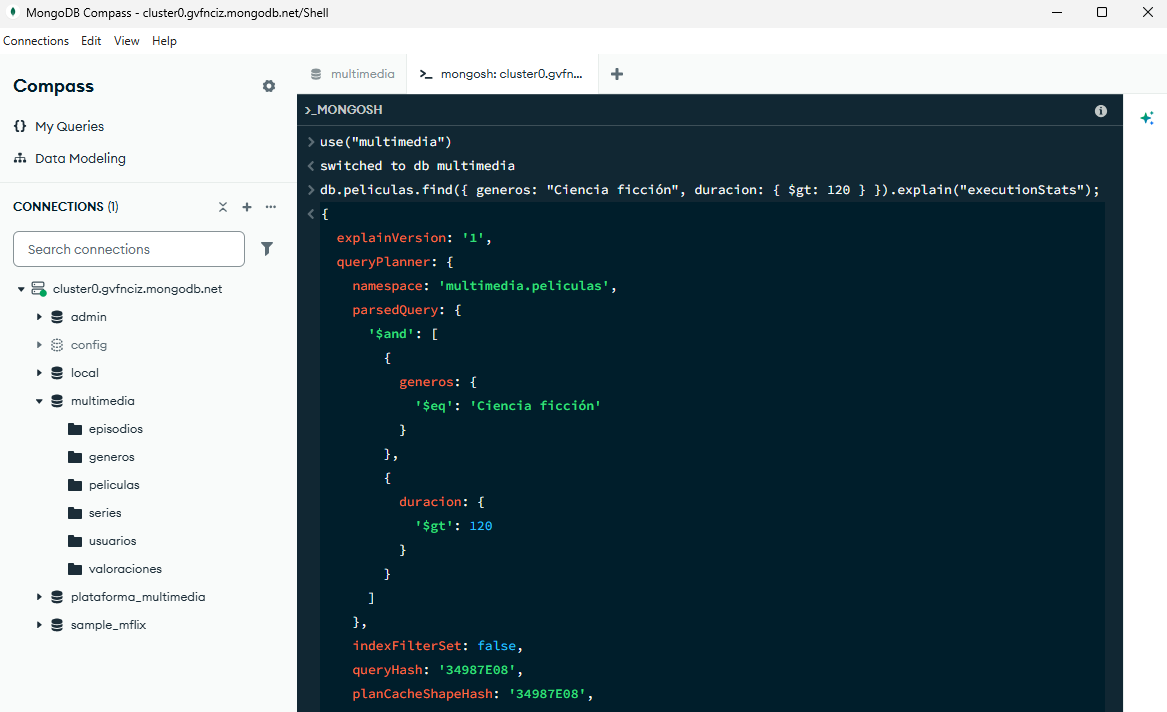
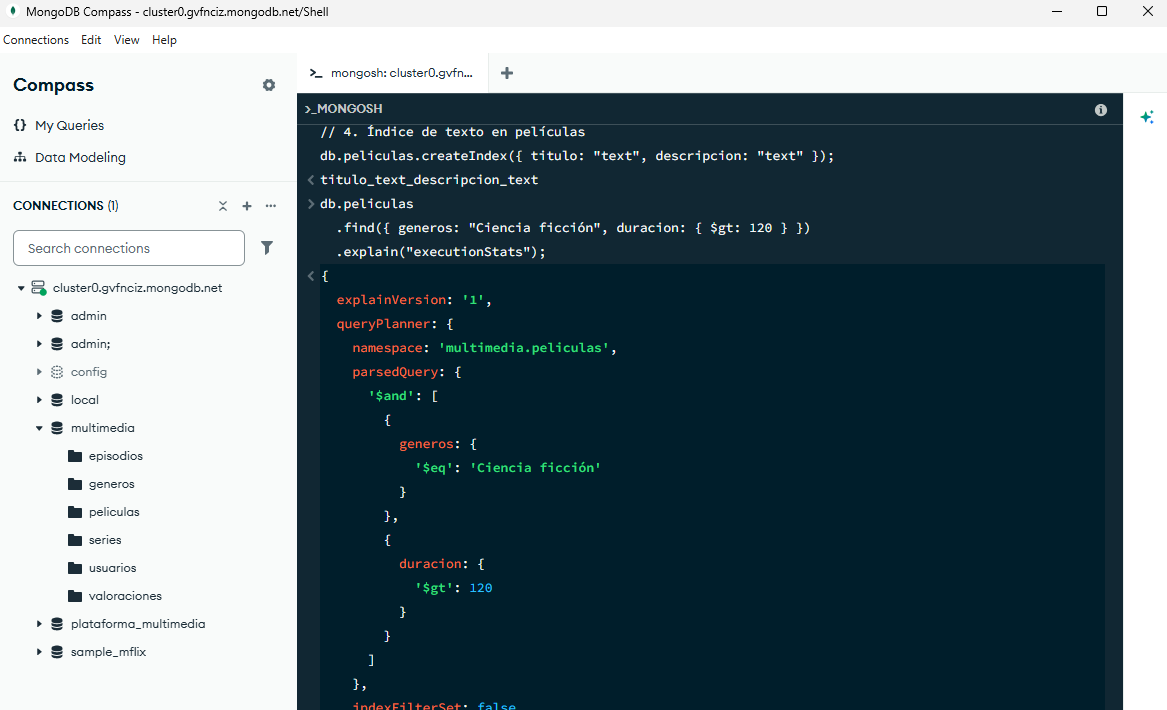
ut2_p1 ultima version

diff --git a/UT2/p1_alejandroandres/docs/evidencias/evidencias.md b/UT2/p1_alejandroandres/docs/evidencias/evidencias.md
@@ -10,36 +10,51 @@ Evidencia: Creando colecciones
 Evidencia: Usando base de datos Multimedia
 ![Evidencia: Usando base de datos Multimedia](ev_insercion_datos_1.png)
 
-Evidencia: Datos ya insertados en multimedia/valoraciones
-![Evidencia: Datos ya insertados en multimedia/valoraciones](ev_insercion_datos_2.png)
+Evidencia: Datos ya insertados en Multimedia
+![Evidencia: Datos ya insertados en Multimedia](ev_insercion_datos_2.png)
 
-Evidencia: Datos nuevos insertados en valoraciones
-![Evidencia: Datos nuevos insertados en valoraciones](ev_insercion_datos_3.png)
+Evidencia: Datos nuevos insertados en Episodios
+![Evidencia: Datos nuevos insertados en Episodios](ev_insercion_datos_3.png)
+
+Evidencia: Datos nuevos insertados en Películas
+![Evidencia: Datos nuevos insertados en Películas](ev_insercion_datos_4.png)
+
+Evidencia: Datos nuevos insertados en Series
+![Evidencia: Datos nuevos insertados en Series](ev_insercion_datos_5.png)
+
+Evidencia: Datos nuevos insertados en Usuarios
+![Evidencia: Datos nuevos insertados en Usuarios](ev_insercion_datos_6.png)
+
+Evidencia: Datos nuevos insertados en Valoraciones
+![Evidencia: Datos nuevos insertados en Valoraciones](ev_insercion_datos_7.png)
 
 ## 03 - Creación de Índices e Inspección del Plan
 
-Evidencia: Agregando todos los indices
-![Evidencia: Agregando todos los indices](ev_indices_1.png)
+Evidencia: Agregando todos los índices
+![Evidencia: Agregando todos los índices](ev_indices_1.png)
 
-Evidencia: Resultado indice 1
-![Evidencia: Resultado indice 1](ev_indices_2.png)
+Evidencia: Resultado índice 1
+![Evidencia: Resultado índice 1](ev_indices_2.png)
 
-Evidencia: Resultado indice 2
-![Evidencia: Resultado indice 2](ev_indices_3.png)
+Evidencia: Resultado índice 2
+![Evidencia: Resultado índice 2](ev_indices_3.png)
 
-Evidencia: Resultado indice 3
-![Evidencia: Resultado indice 3](ev_indices_4.png)
+Evidencia: Resultado índice 3
+![Evidencia: Resultado índice 3](ev_indices_4.png)
 
-Evidencia: Resultado indice 4
-![Evidencia: Resultado indice 4](ev_indices_5.png)
+Evidencia: Resultado índice 4
+![Evidencia: Resultado índice 4](ev_indices_5.png)
 
-Evidencia: Comprobacion de indice usando consulta
-![Evidencia: Comprobacion de indice usando consulta](ev_indices_6.png)
+Evidencia: Comprobacion de índices usando consulta
+![Evidencia: Comprobacion de índices usando consulta](ev_indices_6.png)
 
 ## 04 - Consultas de Negocio, CRUD y Agregación Compleja
 
-Evidencia: Insercion, actualizacion y borrado
-![Evidencia: Insercion, actualizacion y borrado](ev_consultas_1.png)
+Evidencia: Inserción, actualización y borrado
+![Evidencia: Inserción, actualización y borrado](ev_consultas_1.png)
+
+Resultado: Inserción, actualización y borrado
+![Resultado: Inserción, actualización y borrado](ev_consultas_1_1.png)
 
 Evidencia: Consulta 1
 ![Evidencia: Consulta 1](ev_consultas_2.png)
@@ -59,13 +74,13 @@ Evidencia: Consulta 5
 Evidencia: Consulta 6
 ![Evidencia: Consulta 6](ev_consultas_7.png)
 
-Evidencia: Agregacion
-![Evidencia: Agregacion](ev_consultas_8.png)
+Evidencia: Agregación
+![Evidencia: Agregación](ev_consultas_8.png)
 
 ## 05 - Copias de Seguridad y Seguridad
 
-Evidencia: Usuarios y permisos
-![Evidencia: Usuarios y permisos](ev_backup_1.png)
+Evidencia: Usuarios y Permisos
+![Evidencia: Usuarios y Permisos](ev_backup_1.png)
 
-Evidencia: Borrado automático
-![Evidencia: Borrado automático](ev_backup_2.png)
+Evidencia: Borrado Automático
+![Evidencia: Borrado Automático](ev_backup_2.png)

diff --git a/UT2/p1_alejandroandres/docs/modelo.md b/UT2/p1_alejandroandres/docs/modelo.md
@@ -4,12 +4,71 @@
 
 ```mermaid
 erDiagram
-    PELICULAS ||--o{ GENEROS : "tiene"
-    SERIES ||--o{ GENEROS : "tiene"
-    SERIES ||--o{ EPISODIOS : "contiene"
-    USUARIOS ||--o{ VALORACIONES : "hace"
-    PELICULAS ||--o{ VALORACIONES : "recibe"
-    SERIES ||--o{ VALORACIONES : "recibe"
+    PELICULAS {
+        objectId _id PK
+        string titulo
+        string descripcion
+        int anio
+        int duracion
+        array_string generos
+        double puntuacion_media
+        int num_valoraciones
+        boolean activo
+        date fecha_alta
+    }
+
+    SERIES {
+        objectId _id PK
+        string titulo
+        string descripcion
+        int anioInicio
+        int anioFin
+        int temporadas_totales
+        array_string generos
+        boolean activo
+    }
+
+    EPISODIOS {
+        objectId _id PK
+        objectId serieId FK
+        int temporada
+        int numero
+        string titulo
+        int duracion
+    }
+
+    USUARIOS {
+        objectId _id PK
+        string nombre
+        string email
+        string rol
+        boolean activo
+        date fecha_registro
+    }
+
+    VALORACIONES {
+        objectId _id PK
+        objectId usuarioId FK
+        objectId contenidoId FK
+        string tipoContenido
+        int puntuacion
+        string comentario
+        date fecha
+    }
+
+    GENEROS {
+        objectId _id PK
+        string nombre
+        string descripcion
+    }
+
+    SERIES ||--o{ EPISODIOS : "contiene (serieId)"
+    USUARIOS ||--o{ VALORACIONES : "escribe (usuarioId)"
+    PELICULAS ||--o{ VALORACIONES : "recibe (contenidoId)"
+    SERIES ||--o{ VALORACIONES : "recibe (contenidoId)"
+    EPISODIOS ||--o{ VALORACIONES : "recibe (contenidoId)"
+    PELICULAS }o--o{ GENEROS : "incrusta (array generos)"
+    SERIES }o--o{ GENEROS : "incrusta (array generos)"
 ```
 
 ---

diff --git a/UT2/p1_alejandroandres/scripts/05_backup.md b/UT2/p1_alejandroandres/scripts/05_backup.md
@@ -7,7 +7,7 @@
 Para hacer una copia de seguridad de la base de datos desde la consola:
 
 ```bash
-mongodump --db="multimedia" --out="./backup" --gzip
+mongodump --db="multimedia" --gzip --out="./backup"
 ```
 
 ### Restauración (`mongorestore`)
@@ -15,7 +15,7 @@ mongodump --db="multimedia" --out="./backup" --gzip
 Para restaurar la copia de seguridad si hemos borrado la base de datos:
 
 ```bash
-mongorestore --db="multimedia" --drop --gzip "./backup/multimedia"
+mongorestore --db="multimedia" --gzip --drop "./backup/multimedia"
 ```
 
 ---
@@ -52,14 +52,14 @@ db.createUser({
 ## 3. Seguridad y privacidad de los datos
 
 - **Anonimización:** No se usan datos personales reales. Los correos de los usuarios son ficticios (`ejemplo@example.com`).
-- **Seguridad en red:** En un entorno real se habilitaría conexión cifrada SSL/TLS.
+- **Seguridad en red:** En un entorno real se habilitaría conexión cifrada TLS.
 
 ---
 
 ## 4. Cuándo MongoDB no es la mejor opción
 
-1. **Sistemas bancarios o contables:** Para transacciones financieras complejas con muchas tablas relacionadas, una base de datos relacional tradicional (como PostgreSQL) es mejor opción por las restricciones de clave foránea estrictas.
-2. **Búsqueda de texto avanzada:** Si se necesita un motor de búsqueda muy avanzado con sinónimos o correctores ortográficos, es mejor usar un motor especializado como Elasticsearch.
+1. **Guardar los archivos de vídeo:** MongoDB es perfecto para guardar los datos de las películas y series, pero no es una buena idea guardar los archivos de vídeo reales dentro de la base de datos porque ocupan demasiado.
+2. **Edición de vídeos:** Si nuestra aplicación necesitara editar los vídeos o aplicarles filtros, MongoDB no nos serviría, ya que no está pensado para modificar ni procesar los vídeos internamente.
 
 ---
 

diff --git a/UT2/p1_alejandroandres/scripts/03_indices.md b/UT2/p1_alejandroandres/scripts/03_indices.md
@@ -3,25 +3,37 @@
 ## Creación de Índices Justificados
 
 - **Índice 1 (Compuesto):** `{ activo: 1, puntuacion_media: -1, titulo: 1 }` --> Acelera ranking Top 10 películas.
-- **Índice 2 (Compuesto):** `{ generos: 1, duracion: 1 }` --> Acelera filtro Ciencia Ficción > 120 minutos.
-- **Índice 3 (Simple):** `{ serieId: 1 }` --> Acelera los joins con episodios.
+- **Índice 2 (Compuesto):** `{ generos: 1, duracion: 1 }` --> Acelera filtro Ciencia Ficción > 120 min.
+- **Índice 3 (Simple):** `{ serieId: 1 }` --> Acelera joins con episodios.
 - **Índice 4 (Texto):** `{ titulo: "text", descripcion: "text" }` --> Acelera búsquedas de texto.
 
 ```javascript
 // 1. Índice compuesto para ranking de películas
-db.peliculas.createIndex({ activo: 1, puntuacion_media: -1, titulo: 1 });
+db.peliculas.createIndex(
+  { activo: 1, puntuacion_media: -1, titulo: 1 },
+  { name: "idx_peliculas_activo_puntuacion_titulo" },
+);
 
 // 2. Índice compuesto para filtro por género y duración
-db.peliculas.createIndex({ generos: 1, duracion: 1 });
+db.peliculas.createIndex(
+  { generos: 1, duracion: 1 },
+  { name: "idx_peliculas_generos_duracion" },
+);
 
 // 3. Índice en episodios por serieId
-db.episodios.createIndex({ serieId: 1 });
+db.episodios.createIndex({ serieId: 1 }, { name: "idx_episodios_serieId" });
 
 // 4. Índice de texto en películas
-db.peliculas.createIndex({ titulo: "text", descripcion: "text" });
+db.peliculas.createIndex(
+  { titulo: "text", descripcion: "text" },
+  {
+    name: "idx_peliculas_texto_titulo_descripcion",
+    default_language: "spanish",
+  },
+);
 ```
 
-## Plan de ejecución (explain)
+## Plan de ejecución
 
 ```javascript
 // Comprobación de consulta utilizando índice

diff --git a/UT2/p1_alejandroandres/README.md b/UT2/p1_alejandroandres/README.md
@@ -56,7 +56,7 @@ Para reproducir la práctica y ejecutar las consultas paso a paso:
 
 1. **Creación de colecciones con validación:** Ejecuta el script [`scripts/01_colecciones_validacion.md`](./scripts/01_colecciones_validacion.md) para crear la base de datos `multimedia` y aplicar las reglas `$jsonSchema`. Puedes ver las evidencias visuales en [`docs/evidencias/evidencias.md`](./docs/evidencias/evidencias.md).
 2. **Carga de datos de prueba:** Ejecuta la inserción con el script [`scripts/02_datos.md`](./scripts/02_datos.md) o importa los ficheros JSON situados en [`datos/`](./datos/).
-3. **Creación de índices y explain:** Ejecuta el script [`scripts/03_indices.md`](./scripts/03_indices.md) para crear los 4 índices y verificar el plan de ejecución con `explain("executionStats")`.
+3. **Creación de índices y plan de ejecución:** Ejecuta el script [`scripts/03_indices.md`](./scripts/03_indices.md) para crear los 4 índices y verificar el plan de ejecución con `explain("executionStats")`.
 4. **Consultas de negocio y CRUD:** Ejecuta el script [`scripts/04_consultas.md`](./scripts/04_consultas.md) para obtener las operaciones CRUD y los resultados de las 6 preguntas.
 5. **Agregación compleja:** Ejecuta el pipeline por género incluido en [`scripts/04_consultas.md`](./scripts/04_consultas.md).
 6. **Copias de seguridad y seguridad:** Consulta las sentencias y procedimientos en [`scripts/05_backup.md`](./scripts/05_backup.md).
